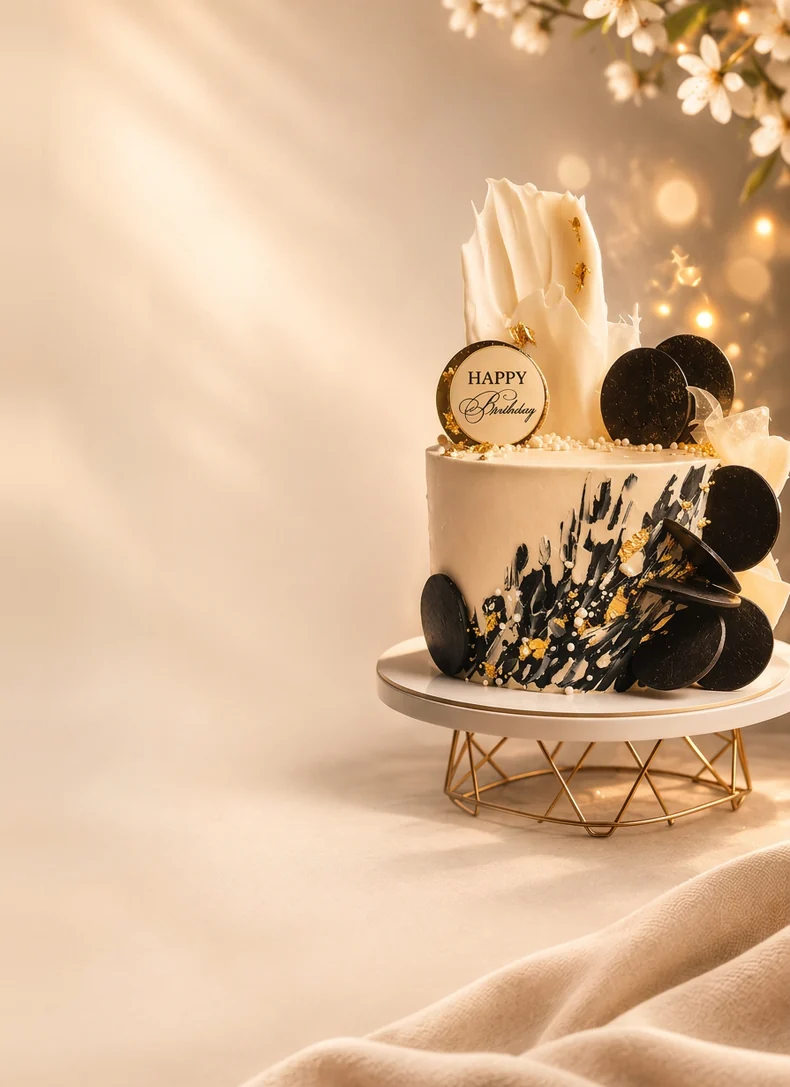
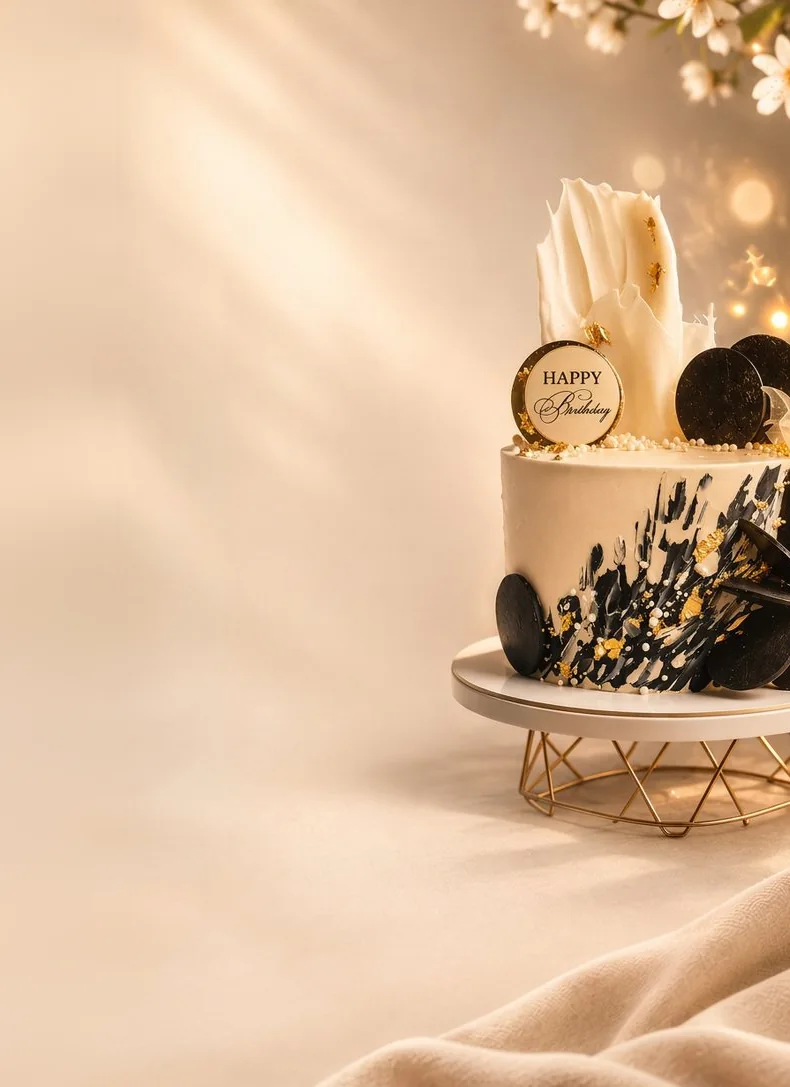
r20-b: торт на постере правее за край, иконки мессенджеров оптически по центру
- постер героя: содержимое сдвинуто на 75px вправо (9.5%), левая полоса
  заполнена зеркалом стены — торт уходит за правый край, надписи на чистом свете
- иконки: убраны легаси-правила .btn-hero-max svg>g (translate+scale .27),
  которые сажали «М» в угол и уменьшали её втрое
- WA/TG/MAX: глифы уменьшены (0.46/0.44), вес штриха выровнен (3.0/2.8/1.4),
  инк-центроиды совпадают с центром кольца (≤0.4px)
- подзаголовок: Санкт-Петербург больше не рвётся переносом
- версии: v20-dark-and-fixes r20, постер с ?v=20261116r20

diff --git a/index.html b/index.html
@@ -410,7 +410,7 @@
 <link rel="stylesheet" href="css/style.css?v=20261116r20" />
   <link rel="stylesheet" href="css/mc-2026.css?v=20261116r20" />
   <link rel="stylesheet" href="css/premium-overrides.css?v=20261116r07" />
-  <link rel="stylesheet" href="/css/v20-dark-and-fixes.css?v=20261116r10">
+  <link rel="stylesheet" href="/css/v20-dark-and-fixes.css?v=20261116r20">
 <!-- Необязательная аналитика и LCP-телеметрия управляются согласием пользователя. -->
 <link rel="stylesheet" href="/css/v20-fixes.css?v=20260728r27">
   <link rel="stylesheet" href="/css/final-fixes.css?v=20261116r20" />
@@ -593,8 +593,8 @@
        текст лежит на чистом свете стены слева. Только для мобильного постера. -->
   <div class="hero-art" aria-hidden="true">
     <picture>
-      <source type="image/webp" srcset="img/hero-poster-cake.webp" />
-      <img src="img/hero-poster-cake.jpg" alt="" width="790" height="1087" fetchpriority="high" decoding="async" />
+      <source type="image/webp" srcset="img/hero-poster-cake.webp?v=20261116r20" />
+      <img src="img/hero-poster-cake.jpg?v=20261116r20" alt="" width="790" height="1087" fetchpriority="high" decoding="async" />
     </picture>
   </div>
   <div class="hero-content">
@@ -603,7 +603,7 @@
         <span class="hero-title-brand" id="heroTitleBrand">Milovi Cake</span>
         <span class="hero-title-seo"> — частный кондитер в СПб</span>
       </h1>
-      <p class="hero-subtitle wave-text"><span class="hero-sub-1">Авторские торты</span> <span class="hero-sub-2">и десерты</span> <span class="hero-sub-3">ручной работы</span> <span class="hero-sub-4">с доставкой по Санкт-Петербургу и Ленобласти</span></p>
+      <p class="hero-subtitle wave-text"><span class="hero-sub-1">Авторские торты</span> <span class="hero-sub-2">и десерты</span> <span class="hero-sub-3">ручной работы</span> <span class="hero-sub-4">с доставкой по Санкт‑Петербургу и Ленобласти</span></p>
       <div class="hero-features">
         <div class="hero-feature-item">
           <svg width="20" height="20" viewBox="0 0 24 24" fill="none" stroke="rgba(255,220,150,0.85)" stroke-width="1.6" stroke-linecap="round" stroke-linejoin="round"><rect x="3" y="4" width="18" height="18" rx="2" ry="2"/><line x1="16" y1="2" x2="16" y2="6"/><line x1="8" y1="2" x2="8" y2="6"/><line x1="3" y1="10" x2="21" y2="10"/></svg>
@@ -623,13 +623,13 @@
         <!-- AI DO NOT TOUCH R10: hero messengers must stay circular inline-SVG ring icons with brand colors: WA #25D366, TG #229ED9, MAX purple. Hover must lift the flat label upward. -->
         <div class="messenger-group messenger-group--ring" style="display:flex;gap:12px;align-items:center;">
           <a href="https://wa.me/79119038886?text=%D0%97%D0%B4%D1%80%D0%B0%D0%B2%D1%81%D1%82%D0%B2%D1%83%D0%B9%D1%82%D0%B5!%20%D0%A5%D0%BE%D1%87%D1%83%20%D0%B7%D0%B0%D0%BA%D0%B0%D0%B7%D0%B0%D1%82%D1%8C%20%D1%82%D0%BE%D1%80%D1%82" target="_blank" rel="noopener noreferrer" class="btn-hero-messenger btn-hero-wa btn-hero-ring" aria-label="Написать в WhatsApp">
-            <svg width="38" height="38" viewBox="0 0 24 24" fill="none" stroke="currentColor" stroke-linecap="round" stroke-linejoin="round" aria-hidden="true" focusable="false"><circle cx="12" cy="12" r="10.2" stroke-width="1.5"/><g transform="translate(12 12) scale(0.55) translate(-12 -12)" stroke-width="2.7"><path d="M22 16.92v3a2 2 0 0 1-2.18 2 19.79 19.79 0 0 1-8.63-3.07 19.5 19.5 0 0 1-6-6 19.79 19.79 0 0 1-3.07-8.67A2 2 0 0 1 4.11 2h3a2 2 0 0 1 2 1.72 12.84 12.84 0 0 0 .7 2.81 2 2 0 0 1-.45 2.11L8.09 9.91a16 16 0 0 0 6 6l1.27-1.27a2 2 0 0 1 2.11-.45 12.84 12.84 0 0 0 2.81.7A2 2 0 0 1 22 16.92z"/></g></svg>
+            <svg width="38" height="38" viewBox="0 0 24 24" fill="none" stroke="currentColor" stroke-linecap="round" stroke-linejoin="round" aria-hidden="true" focusable="false"><circle cx="12" cy="12" r="10.2" stroke-width="1.5"/><g transform="translate(0.30 0.16) translate(12 12) scale(0.46) translate(-12 -12)" stroke-width="3"><path d="M22 16.92v3a2 2 0 0 1-2.18 2 19.79 19.79 0 0 1-8.63-3.07 19.5 19.5 0 0 1-6-6 19.79 19.79 0 0 1-3.07-8.67A2 2 0 0 1 4.11 2h3a2 2 0 0 1 2 1.72 12.84 12.84 0 0 0 .7 2.81 2 2 0 0 1-.45 2.11L8.09 9.91a16 16 0 0 0 6 6l1.27-1.27a2 2 0 0 1 2.11-.45 12.84 12.84 0 0 0 2.81.7A2 2 0 0 1 22 16.92z"/></g></svg>
           </a>
           <a href="https://t.me/+79119038886" target="_blank" rel="noopener noreferrer" class="btn-hero-messenger btn-hero-tg btn-hero-ring" aria-label="Написать в Telegram">
-            <svg width="38" height="38" viewBox="0 0 24 24" fill="none" stroke="currentColor" stroke-linecap="round" stroke-linejoin="round" aria-hidden="true" focusable="false"><circle cx="12" cy="12" r="10.2" stroke-width="1.5"/><g transform="translate(12 12) scale(0.52) translate(-12 -12)" stroke-width="2.5"><path d="M22 2 11 13"/><path d="M22 2l-7 20-4-9-9-4z"/></g></svg>
+            <svg width="38" height="38" viewBox="0 0 24 24" fill="none" stroke="currentColor" stroke-linecap="round" stroke-linejoin="round" aria-hidden="true" focusable="false"><circle cx="12" cy="12" r="10.2" stroke-width="1.5"/><g transform="translate(-0.66 1.10) translate(12 12) scale(0.44) translate(-12 -12)" stroke-width="2.8"><path d="M22 2 11 13"/><path d="M22 2l-7 20-4-9-9-4z"/></g></svg>
           </a>
           <a href="https://max.ru/MiloviCake" target="_blank" rel="noopener noreferrer" class="btn-hero-messenger btn-hero-max btn-hero-ring" aria-label="Написать в MAX">
-            <svg width="38" height="38" viewBox="0 0 24 24" fill="none" stroke="currentColor" stroke-linecap="round" stroke-linejoin="round" aria-hidden="true" focusable="false"><circle cx="12" cy="12" r="10.2" stroke-width="1.5"/><path d="M8.6 15.4V8.6l3.4 4.2 3.4-4.2v6.8" stroke-width="2.1"/></svg>
+            <svg width="38" height="38" viewBox="0 0 24 24" fill="none" stroke="currentColor" stroke-linecap="round" stroke-linejoin="round" aria-hidden="true" focusable="false"><circle cx="12" cy="12" r="10.2" stroke-width="1.5"/><path d="M7.9 16.7V8.5l4.1 5.2 4.1-5.2v8.2" stroke-width="1.4"/></svg>
           </a>
         </div>
         <span class="hero-msg-caption">Индивидуальный подход</span>

diff --git a/css/final-fixes.css b/css/final-fixes.css
@@ -138,11 +138,6 @@ html:not([data-theme="dark"]) .hero .btn-primary.btn-primary--hero,
 }
 
 
-.hero-actions .btn-hero-max > svg > g {
-  transform: translate(6px, 3.5px) scale(0.27) !important;
-  transform-origin: 0 0 !important;
-  transform-box: view-box !important;
-}
 
 
 #preloader.hidden {
@@ -1872,3 +1867,12 @@ html:not([data-theme="dark"]) body:has(.hero-tag) .price-card-note {
   color:var(--gold-light);
   box-shadow:0 4px 14px rgba(0,0,0,.35), inset 0 1px 0 rgba(255,255,255,.08);
 }
+
+/* ════════════════════════════════════════════
+   [r20-b] Торт на постере уезжает правее: владелец — «слишком заезжает на
+   надписи, подвинь правее, за край чуть». Сдвиг + лёгкое увеличение от
+   правого края, чтобы левый край арта остался закрытым (без полосы фона).
+   ════════════════════════════════════════════ */
+/* Сдвиг торта вправо запечён в сам постер (img/hero-poster-cake.jpg|webp):
+   торт уходит за правый край, надписи остаются на чистом свете. */
+

diff --git a/certificates/index.html b/certificates/index.html
@@ -707,7 +707,7 @@
   </style>
 
   <link rel="stylesheet" href="/css/premium-overrides.css?v=20261116r07" />
-  <link rel="stylesheet" href="/css/v20-dark-and-fixes.css?v=20261116r10">
+  <link rel="stylesheet" href="/css/v20-dark-and-fixes.css?v=20261116r20">
   <link rel="stylesheet" href="/css/v20-fixes.css?v=20260728r27">
 <style id="lp-theme-toggle-css">
 .lp-theme-toggle{display:inline-flex;align-items:center;justify-content:center;width:38px;height:38px;min-width:38px;border-radius:50%;border:1px solid rgba(201,147,74,.3);background:rgba(255,255,255,.04);color:var(--gold,#c9934a);cursor:pointer;padding:0;flex-shrink:0;margin-left:auto;-webkit-tap-highlight-color:transparent;transition:border-color .2s,background .2s,transform .15s}

diff --git a/prigorody/index.html b/prigorody/index.html
@@ -119,7 +119,7 @@
 <link rel="stylesheet" href="../css/style.css?v=20261116r20" />
   <link rel="stylesheet" href="/css/mc-2026.css?v=20261116r20" />
   <link rel="stylesheet" href="/css/premium-overrides.css?v=20261116r07" />
-  <link rel="stylesheet" href="/css/v20-dark-and-fixes.css?v=20261116r10">
+  <link rel="stylesheet" href="/css/v20-dark-and-fixes.css?v=20261116r20">
   <style>
     :root { --hub-muted: #70523d; --hub-link: #89531e; scroll-padding-top: 72px; }
     :root[data-theme="dark"] { --hub-muted: #d6c1a5; --hub-link: #edc68b; }

diff --git a/prigorody/_template.html b/prigorody/_template.html
@@ -122,7 +122,7 @@
   <link rel="stylesheet" href="../../css/style.css?v=20261116r20" />
   <link rel="stylesheet" href="../../css/mc-2026.css?v=20261116r20" />
   <link rel="stylesheet" href="../../css/premium-overrides.css?v=20261116r07" />
-  <link rel="stylesheet" href="/css/v20-dark-and-fixes.css?v=20261116r10">
+  <link rel="stylesheet" href="/css/v20-dark-and-fixes.css?v=20261116r20">
   <script type="application/ld+json">
   {
     "@context": "https://schema.org",

diff --git a/prigorody/gatchina/index.html b/prigorody/gatchina/index.html
@@ -122,7 +122,7 @@
   <link rel="stylesheet" href="../../css/style.css?v=20261116r20" />
   <link rel="stylesheet" href="../../css/mc-2026.css?v=20261116r20" />
   <link rel="stylesheet" href="../../css/premium-overrides.css?v=20261116r07" />
-  <link rel="stylesheet" href="/css/v20-dark-and-fixes.css?v=20261116r10">
+  <link rel="stylesheet" href="/css/v20-dark-and-fixes.css?v=20261116r20">
   <script type="application/ld+json">
   {
     "@context": "https://schema.org",

diff --git a/prigorody/kolpino/index.html b/prigorody/kolpino/index.html
@@ -122,7 +122,7 @@
   <link rel="stylesheet" href="../../css/style.css?v=20261116r20" />
   <link rel="stylesheet" href="../../css/mc-2026.css?v=20261116r20" />
   <link rel="stylesheet" href="../../css/premium-overrides.css?v=20261116r07" />
-  <link rel="stylesheet" href="/css/v20-dark-and-fixes.css?v=20261116r10">
+  <link rel="stylesheet" href="/css/v20-dark-and-fixes.css?v=20261116r20">
   <script type="application/ld+json">
   {
     "@context": "https://schema.org",

diff --git a/prigorody/krasnoe-selo/index.html b/prigorody/krasnoe-selo/index.html
@@ -122,7 +122,7 @@
   <link rel="stylesheet" href="../../css/style.css?v=20261116r20" />
   <link rel="stylesheet" href="../../css/mc-2026.css?v=20261116r20" />
   <link rel="stylesheet" href="../../css/premium-overrides.css?v=20261116r07" />
-  <link rel="stylesheet" href="/css/v20-dark-and-fixes.css?v=20261116r10">
+  <link rel="stylesheet" href="/css/v20-dark-and-fixes.css?v=20261116r20">
   <script type="application/ld+json">
   {
     "@context": "https://schema.org",

diff --git a/prigorody/kronshtadt/index.html b/prigorody/kronshtadt/index.html
@@ -122,7 +122,7 @@
   <link rel="stylesheet" href="../../css/style.css?v=20261116r20" />
   <link rel="stylesheet" href="../../css/mc-2026.css?v=20261116r20" />
   <link rel="stylesheet" href="../../css/premium-overrides.css?v=20261116r07" />
-  <link rel="stylesheet" href="/css/v20-dark-and-fixes.css?v=20261116r10">
+  <link rel="stylesheet" href="/css/v20-dark-and-fixes.css?v=20261116r20">
   <script type="application/ld+json">
   {
     "@context": "https://schema.org",

diff --git a/prigorody/kudrovo/index.html b/prigorody/kudrovo/index.html
@@ -122,7 +122,7 @@
   <link rel="stylesheet" href="../../css/style.css?v=20261116r20" />
   <link rel="stylesheet" href="../../css/mc-2026.css?v=20261116r20" />
   <link rel="stylesheet" href="../../css/premium-overrides.css?v=20261116r07" />
-  <link rel="stylesheet" href="/css/v20-dark-and-fixes.css?v=20261116r10">
+  <link rel="stylesheet" href="/css/v20-dark-and-fixes.css?v=20261116r20">
   <script type="application/ld+json">
   {
     "@context": "https://schema.org",

diff --git a/prigorody/lomonosov/index.html b/prigorody/lomonosov/index.html
@@ -122,7 +122,7 @@
   <link rel="stylesheet" href="../../css/style.css?v=20261116r20" />
   <link rel="stylesheet" href="../../css/mc-2026.css?v=20261116r20" />
   <link rel="stylesheet" href="../../css/premium-overrides.css?v=20261116r07" />
-  <link rel="stylesheet" href="/css/v20-dark-and-fixes.css?v=20261116r10">
+  <link rel="stylesheet" href="/css/v20-dark-and-fixes.css?v=20261116r20">
   <script type="application/ld+json">
   {
     "@context": "https://schema.org",

diff --git a/prigorody/murino/index.html b/prigorody/murino/index.html
@@ -122,7 +122,7 @@
   <link rel="stylesheet" href="../../css/style.css?v=20261116r20" />
   <link rel="stylesheet" href="../../css/mc-2026.css?v=20261116r20" />
   <link rel="stylesheet" href="../../css/premium-overrides.css?v=20261116r07" />
-  <link rel="stylesheet" href="/css/v20-dark-and-fixes.css?v=20261116r10">
+  <link rel="stylesheet" href="/css/v20-dark-and-fixes.css?v=20261116r20">
   <script type="application/ld+json">
   {
     "@context": "https://schema.org",
